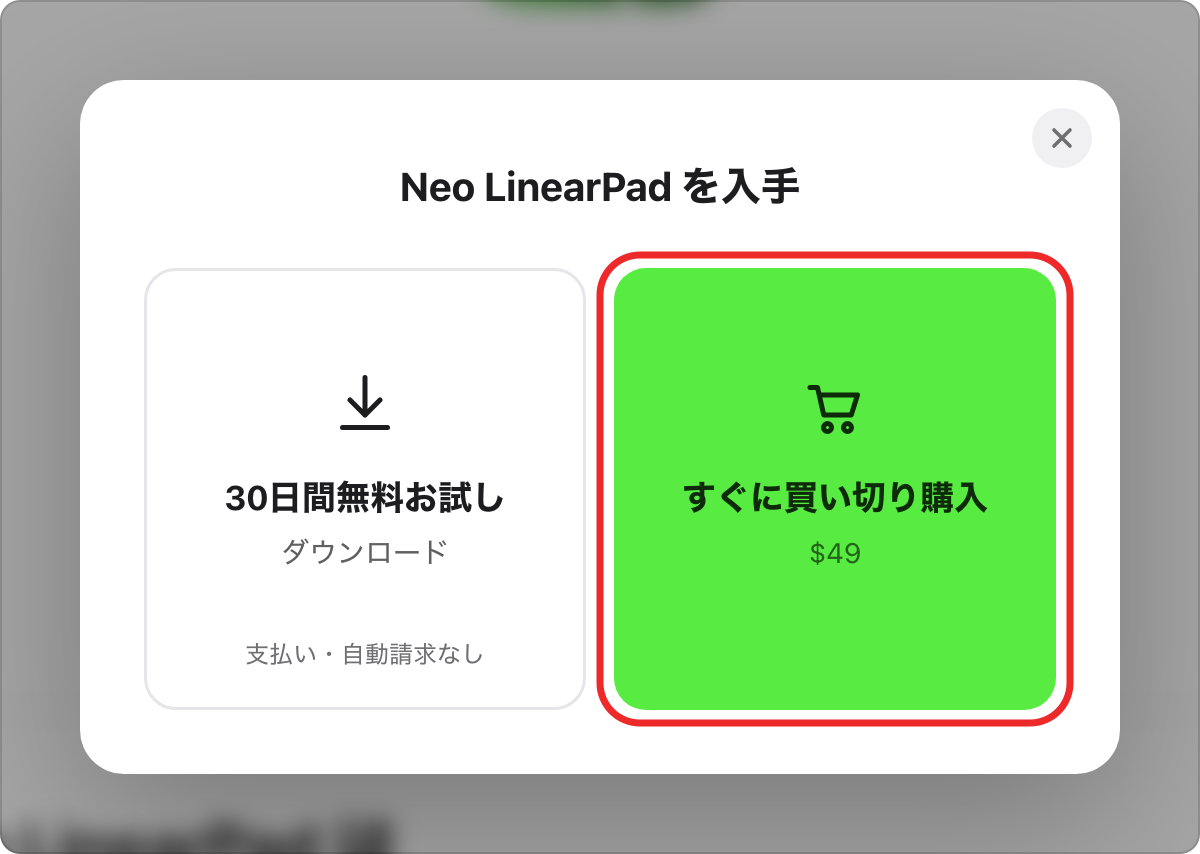
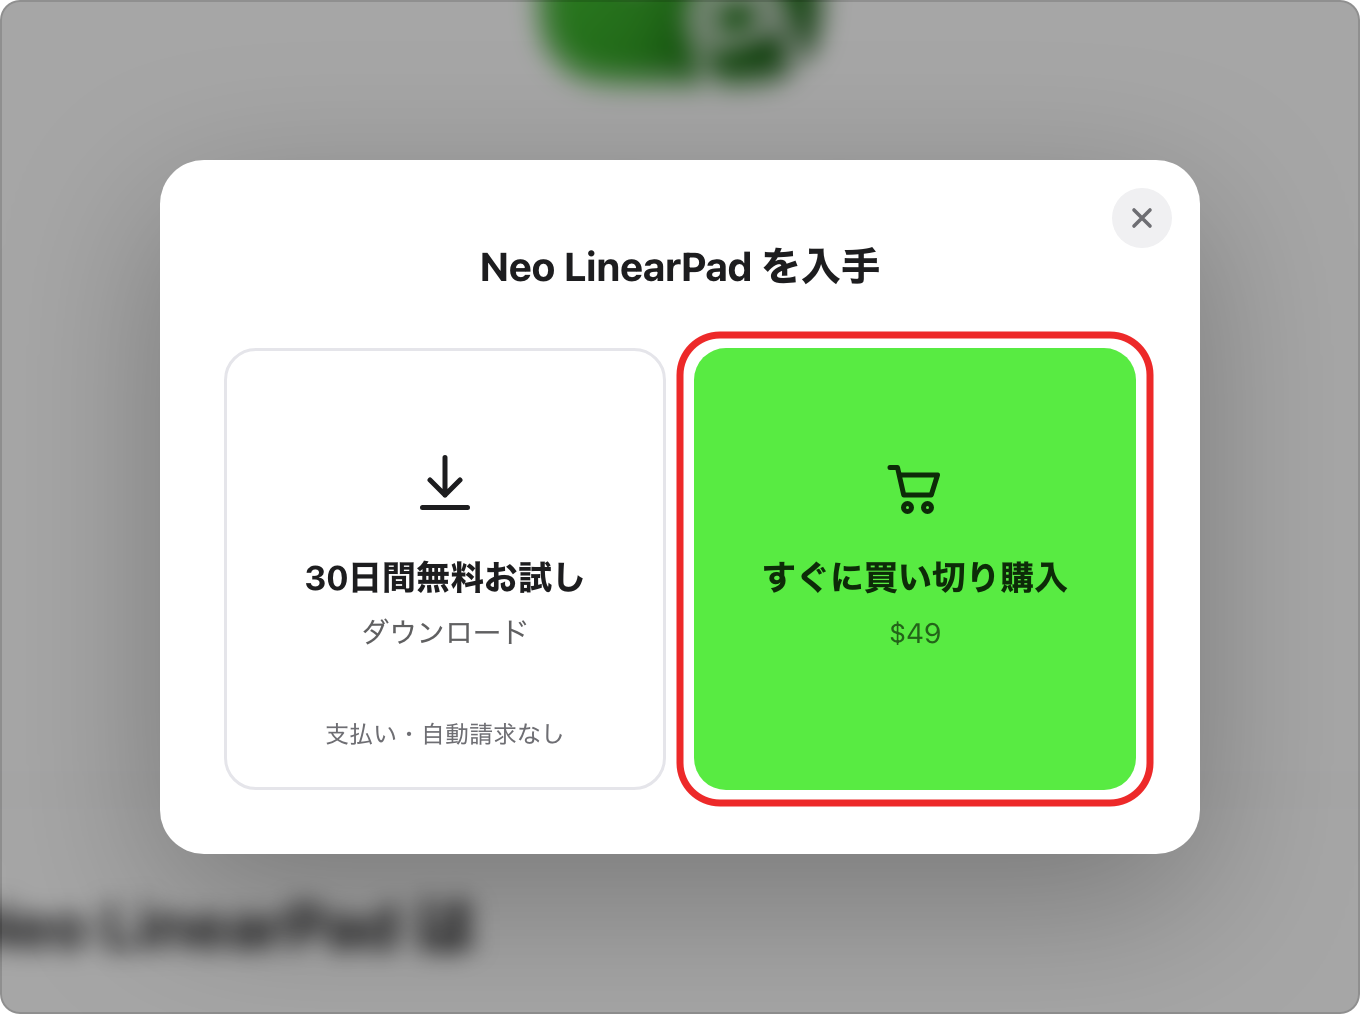
After-purchase step 1: zoomed out, twice the room around the dialog

diff --git a/ja/index.html b/ja/index.html
@@ -71,7 +71,7 @@
         <div class="guide-body">
           <ol>
             <li>ページ上の「ダウンロード」から「すぐに買い切り購入」を選び、メールアドレスとお支払い情報を入力して購入します。ライセンスキーは、入力したメールアドレスにも届きます。
-              <img src="../assets/guide/buy-1-choose.png?v=1" alt="「すぐに買い切り購入」を選ぶ" loading="lazy">
+              <img src="../assets/guide/buy-1-choose.png?v=2" alt="「すぐに買い切り購入」を選ぶ" loading="lazy">
             </li>
             <li>購入が終わると出る画面で、「Set up <span class="notranslate" translate="no">Neo LinearPad</span>」を押します。同じボタンは、購入完了のメールにもあります。
               <img src="../assets/guide/buy-2-complete.png?v=3" alt="購入完了の画面" loading="lazy">

diff --git a/en/index.html b/en/index.html
@@ -70,7 +70,7 @@
         <div class="guide-body">
           <ol>
             <li>Click Download on this page, choose “Buy now, pay once”, and complete the purchase with your email address and payment details. Your license key is also sent to that email address.
-              <img src="../assets/guide/en/buy-1-choose.png?v=1" alt="Choosing “Buy now, pay once”" loading="lazy">
+              <img src="../assets/guide/en/buy-1-choose.png?v=2" alt="Choosing “Buy now, pay once”" loading="lazy">
             </li>
             <li>When the purchase is complete, click “Set up <span class="notranslate" translate="no">Neo LinearPad</span>”. The same button is also in your receipt email.
               <img src="../assets/guide/en/buy-2-complete.png?v=1" alt="The purchase confirmation" loading="lazy">
